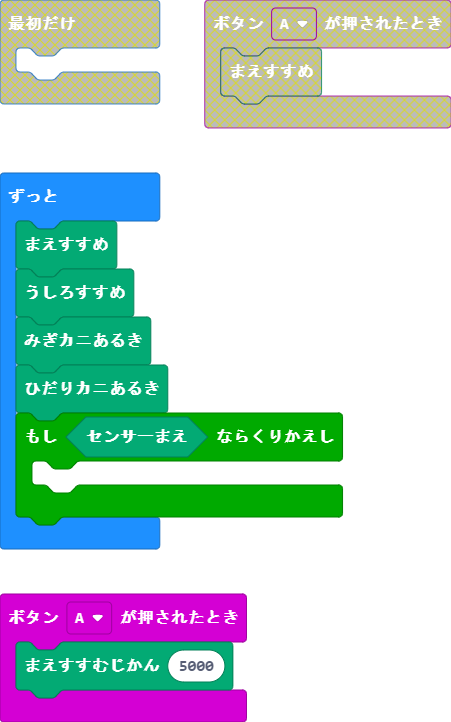
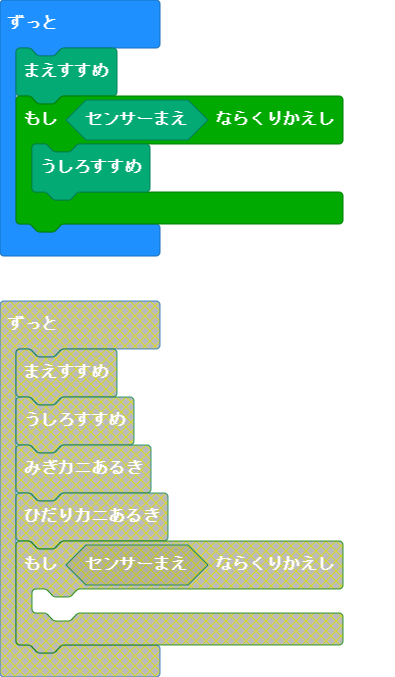
Update main.blocks, main.ts, tutorial.md, custom.ts

diff --git a/main.ts b/main.ts
@@ -3,10 +3,7 @@ input.onButtonPressed(Button.A, function () {
 })
 basic.forever(function () {
     どうさ.まえすすめ()
-    どうさ.うしろすすめ()
-    どうさ.みぎカニあるき()
-    どうさ.ひだりカニあるき()
     while (どうさ.センサーまえ()) {
-    	
+        どうさ.うしろすすめ()
     }
 })

diff --git a/custom.ts b/custom.ts
@@ -111,6 +111,7 @@ namespace どうさ　{
     //% ms.defl=1000
     export function まえすすむじかん(ms: number) {
         /*miliSeconds = ms*/
+        まえすすめ()
         basic.pause(ms)
     }
 }

diff --git a/tutorial.md b/tutorial.md
@@ -7,8 +7,12 @@ basic.pause(100)
 どうさ.うしろすすめ()
 どうさ.みぎカニあるき()
 どうさ.ひだりカニあるき()
-どうさ.センサーまえ()
-    
+basic.forever(function () {
+    どうさ.まえすすめ()
+    while (どうさ.センサーまえ()) {
+        どうさ.うしろすすめ()
+    }
+})  
 basic.clearScreen()
 input.onButtonPressed(Button.A, function () {
 })
